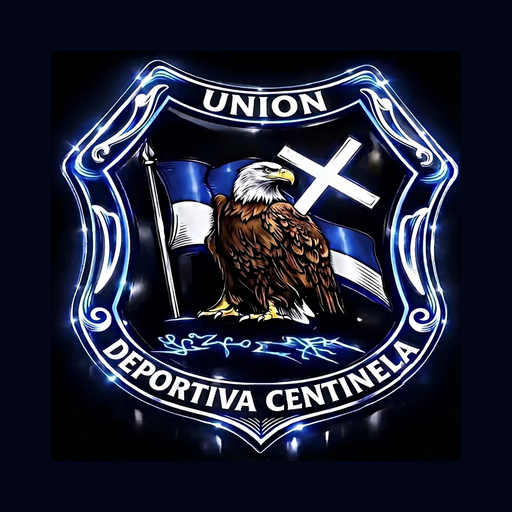
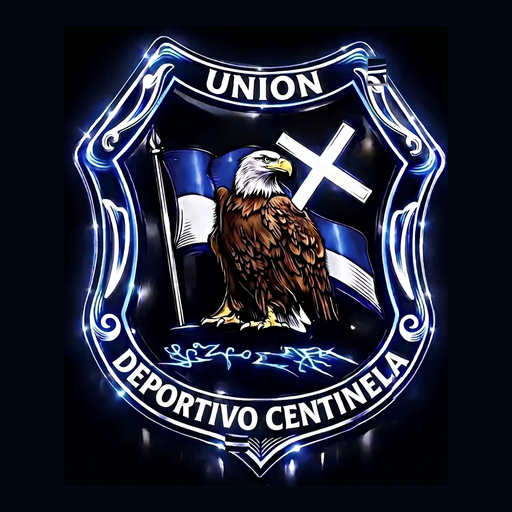
feat(brand): integrar escudos oficiales actualizados (azul y dorado) con Deportivo Centinela

diff --git a/sw.js b/sw.js
@@ -1,10 +1,10 @@
 /**
  * UD Centinela - Service Worker PWA & Modo Estadio Offline
- * Version: 20260821_revert_v1
+ * Version: 20260821_brand_final_v1
  */
 
-const CACHE_NAME = 'udc-cache-v20260821_revert_v1';
-const DATA_CACHE_NAME = 'udc-data-cache-v20260821_revert_v1';
+const CACHE_NAME = 'udc-cache-v20260821_brand_final_v1';
+const DATA_CACHE_NAME = 'udc-data-cache-v20260821_brand_final_v1';
 
 const PRECACHE_ASSETS = [
   '/',
